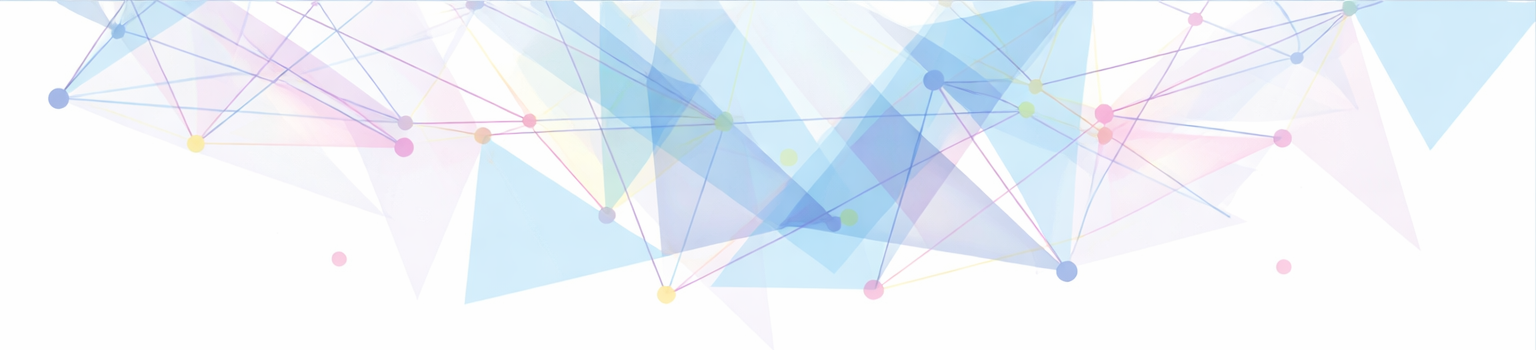
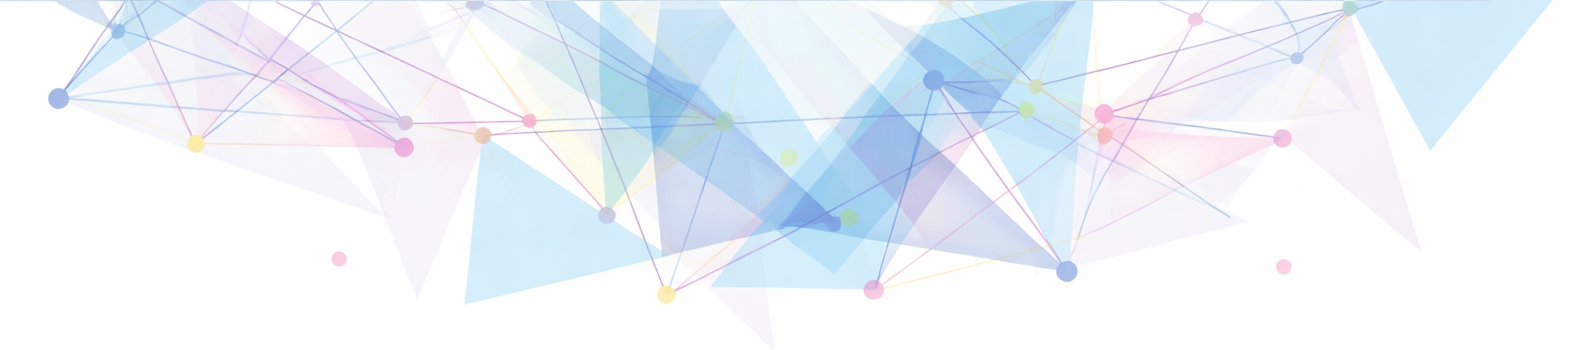
更新banner_bg图片，取消说明文案粗体效果

diff --git a/docs/styles.css b/docs/styles.css
@@ -339,6 +339,10 @@ body {
   font-weight: 600;
 }
 
+.chart-panel .panel__header p {
+  font-weight: 400;
+}
+
 .panel-title-row {
   display: flex;
   align-items: center;
